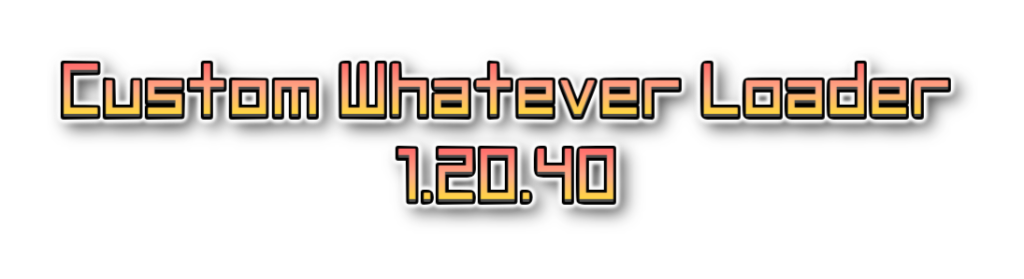
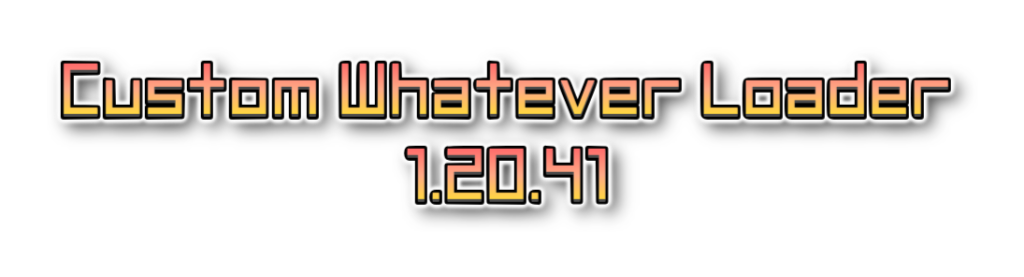
build(CWL): bump version

diff --git a/CustomWhateverLoader/API/WorkbookImporter.cs b/CustomWhateverLoader/API/WorkbookImporter.cs
@@ -90,14 +90,14 @@ public class WorkbookImporter
     public static void LoadAllFiles(IEnumerable<FileInfo> imports, string prefetch = nameof(Element))
     {
         var alloc = GC.GetTotalMemory(false);
-        
+
         var usePrefetch = true;
         var chunkSize = CwlConfig.MaxPrefetchLoads;
         if (chunkSize == -1) {
             usePrefetch = false;
             chunkSize = int.MaxValue;
         }
-        
+
         CwlMod.Debug<WorkbookImporter>($"prefetch enabled: {usePrefetch}");
 
         List<IWorkbook> books = [];

diff --git a/CustomWhateverLoader/Loader/CustomWhateverLoader.cs b/CustomWhateverLoader/Loader/CustomWhateverLoader.cs
@@ -9,7 +9,7 @@ public static class ModInfo
     // for legacy reason
     public const string Guid = "dk.elinplugins.customdialogloader";
     public const string Name = "Custom Whatever Loader";
-    public const string Version = "1.20.40";
+    public const string Version = "1.20.41";
 }
 
 [BepInPlugin(ModInfo.Guid, ModInfo.Name, ModInfo.Version)]
